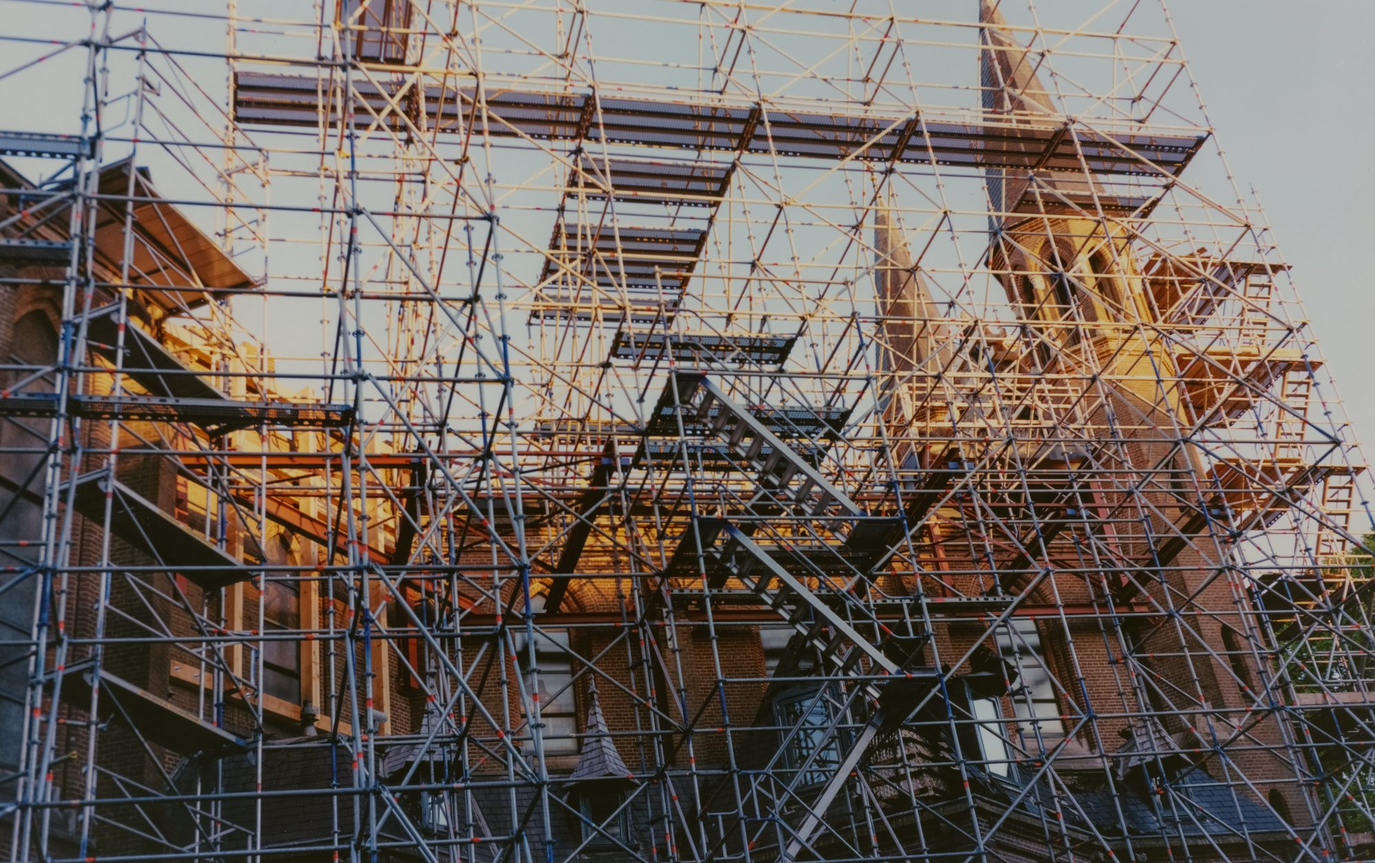
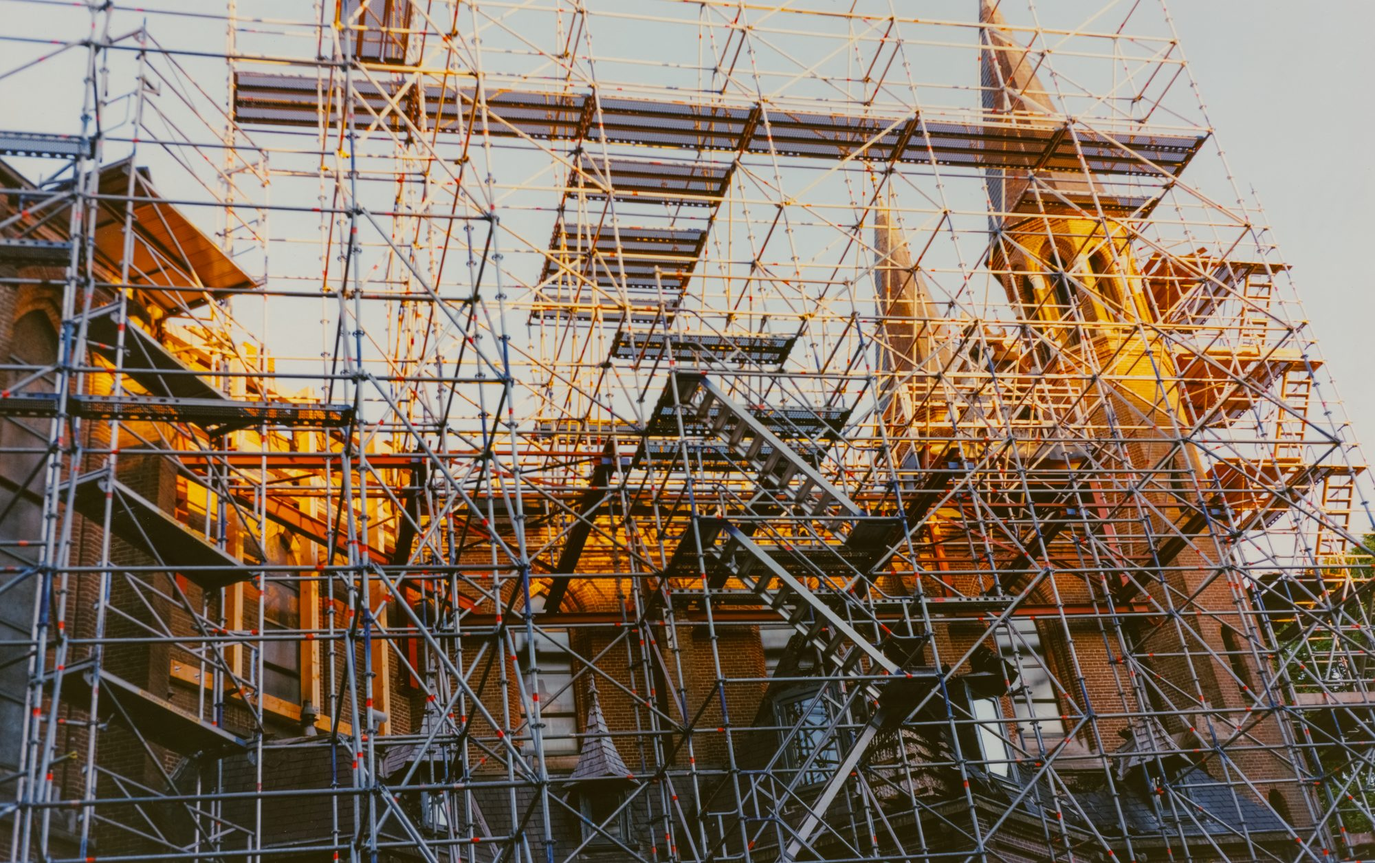
Enlarge mobile titles and put 011 before 012.

diff --git a/style.css b/style.css
@@ -1227,11 +1227,11 @@ body.collection-path-page {
 
   body.main-page .collection-nav a,
   .sidebar-link {
-    font-size: clamp(0.72rem, 3.35vw, 1.05rem);
+    font-size: clamp(0.95rem, 4.5vw, 1.2rem);
     white-space: nowrap;
     min-width: 0;
     max-width: 100%;
-    letter-spacing: 0.02em;
+    letter-spacing: 0.03em;
     line-height: 1.2;
     padding: 0.32rem 0;
   }
@@ -1263,8 +1263,8 @@ body.collection-path-page {
   }
 
   .collection-title {
-    font-size: clamp(0.78rem, 3.5vw, 1.15rem);
-    letter-spacing: 0.02em;
+    font-size: clamp(1rem, 4.6vw, 1.35rem);
+    letter-spacing: 0.03em;
     white-space: nowrap;
     text-align: center;
     padding: 0 0.3em;

diff --git a/collection.html b/collection.html
@@ -26,7 +26,7 @@
     <link rel="preconnect" href="https://fonts.googleapis.com" />
     <link rel="preconnect" href="https://fonts.gstatic.com" crossorigin />
     <link href="https://fonts.googleapis.com/css2?family=Crimson+Text:ital,wght@0,400;0,600;1,400&display=swap" rel="stylesheet" />
-    <link rel="stylesheet" href="style.css?v=20260818oneline" />
+    <link rel="stylesheet" href="style.css?v=20260818oneline2" />
     <script>
       window.__PATH_STROKE_FIX__ = "20260816pathvar";
     </script>

diff --git a/index.html b/index.html
@@ -26,7 +26,7 @@
     <link rel="preconnect" href="https://fonts.googleapis.com" />
     <link rel="preconnect" href="https://fonts.gstatic.com" crossorigin />
     <link href="https://fonts.googleapis.com/css2?family=Crimson+Text:ital,wght@0,400;0,600;1,400&display=swap" rel="stylesheet" />
-    <link rel="stylesheet" href="style.css?v=20260818oneline" />
+    <link rel="stylesheet" href="style.css?v=20260818oneline2" />
     <script>
       (function () {
         try {
